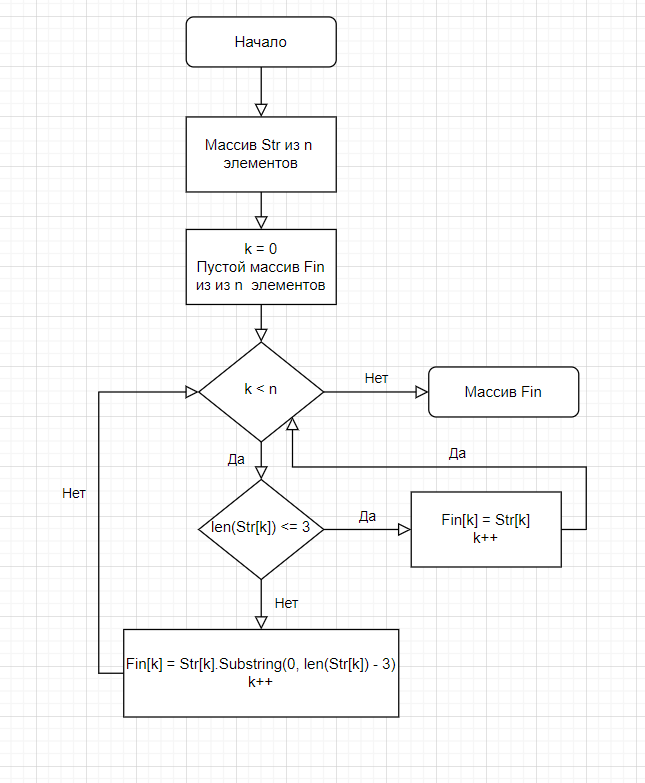
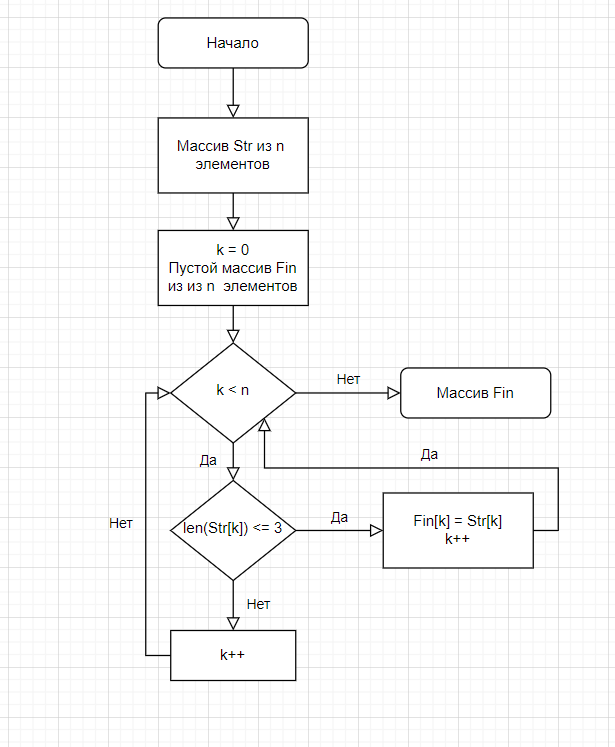
Add program

diff --git a/Final work/Program.cs b/Final work/Program.cs
@@ -1,2 +1,29 @@
-// See https://aka.ms/new-console-template for more information
-Console.WriteLine("Hello, World!");
+//string[] Str = new string[] {"hello", "2", "world", ":-)"};
+//string[] Str = new string[] {"1234", "1567", "-2", "computer science"};
+string[] Str = new string[] {"Russia", "Kazan", "Denmark"};
+string[] Fin = new string[Str.Length];
+
+void FillArray(string[] Str, string[] Fin)
+{
+    int count = 0;
+    for (int i = 0; i < Str.Length; i++)
+    {
+        if(Str[i].Length <= 3)
+        {
+            Fin[count] = Str[i];
+            count++;
+        }
+    }
+}
+
+void PrintArray(string[] array)
+{
+    for (int i = 0; i < array.Length; i++)
+    {
+        Console.Write($"{array[i]} ");
+    }
+    Console.WriteLine();
+}
+
+FillArray(Str, Fin);
+PrintArray(Fin);

diff --git a/Final work/readme.md b/Final work/readme.md
@@ -8,7 +8,7 @@
 3. Задается переменная k = 0.
 4. Каждый элемент массива Str проверяется на условие, что его длина не более 3 символов.
 Если условие выполнено, то элемент записывается в массив Fin.
-Если условие не выполнено, то элемент обрезается до 3 символов и записывается в массив Fin.
+Если условие не выполнено, то элемент  не записывается в массив Fin.
 
 Блок-схема представлена в файле Блок-схема.png.
 Реализация алгоритма в файле Program.cs.
